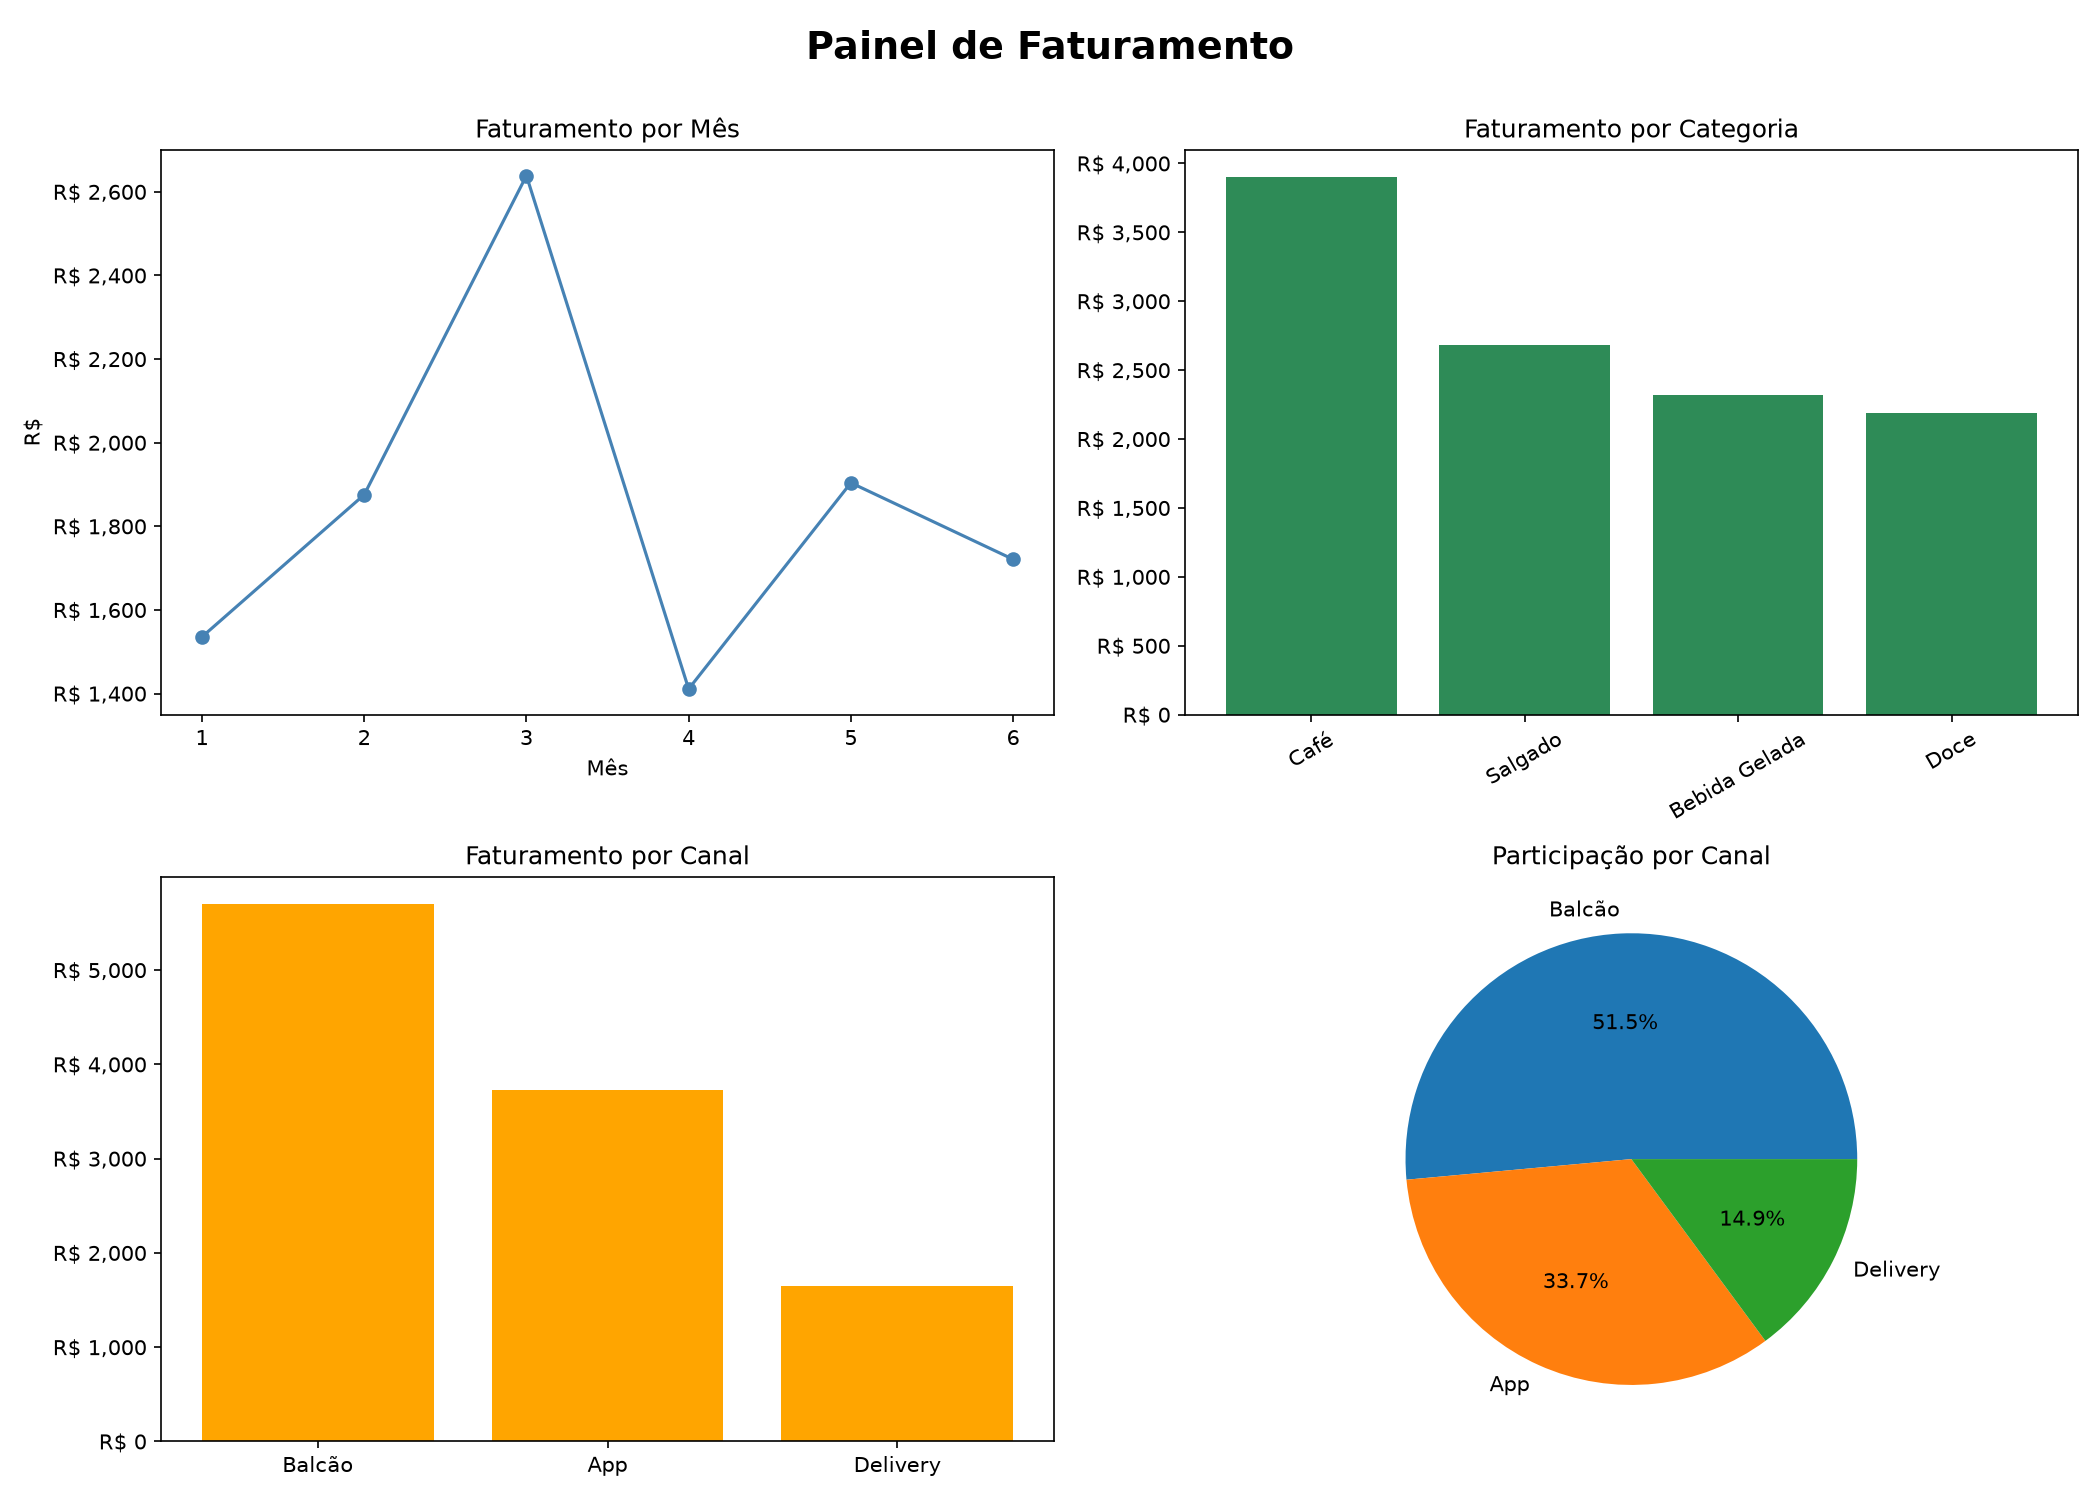
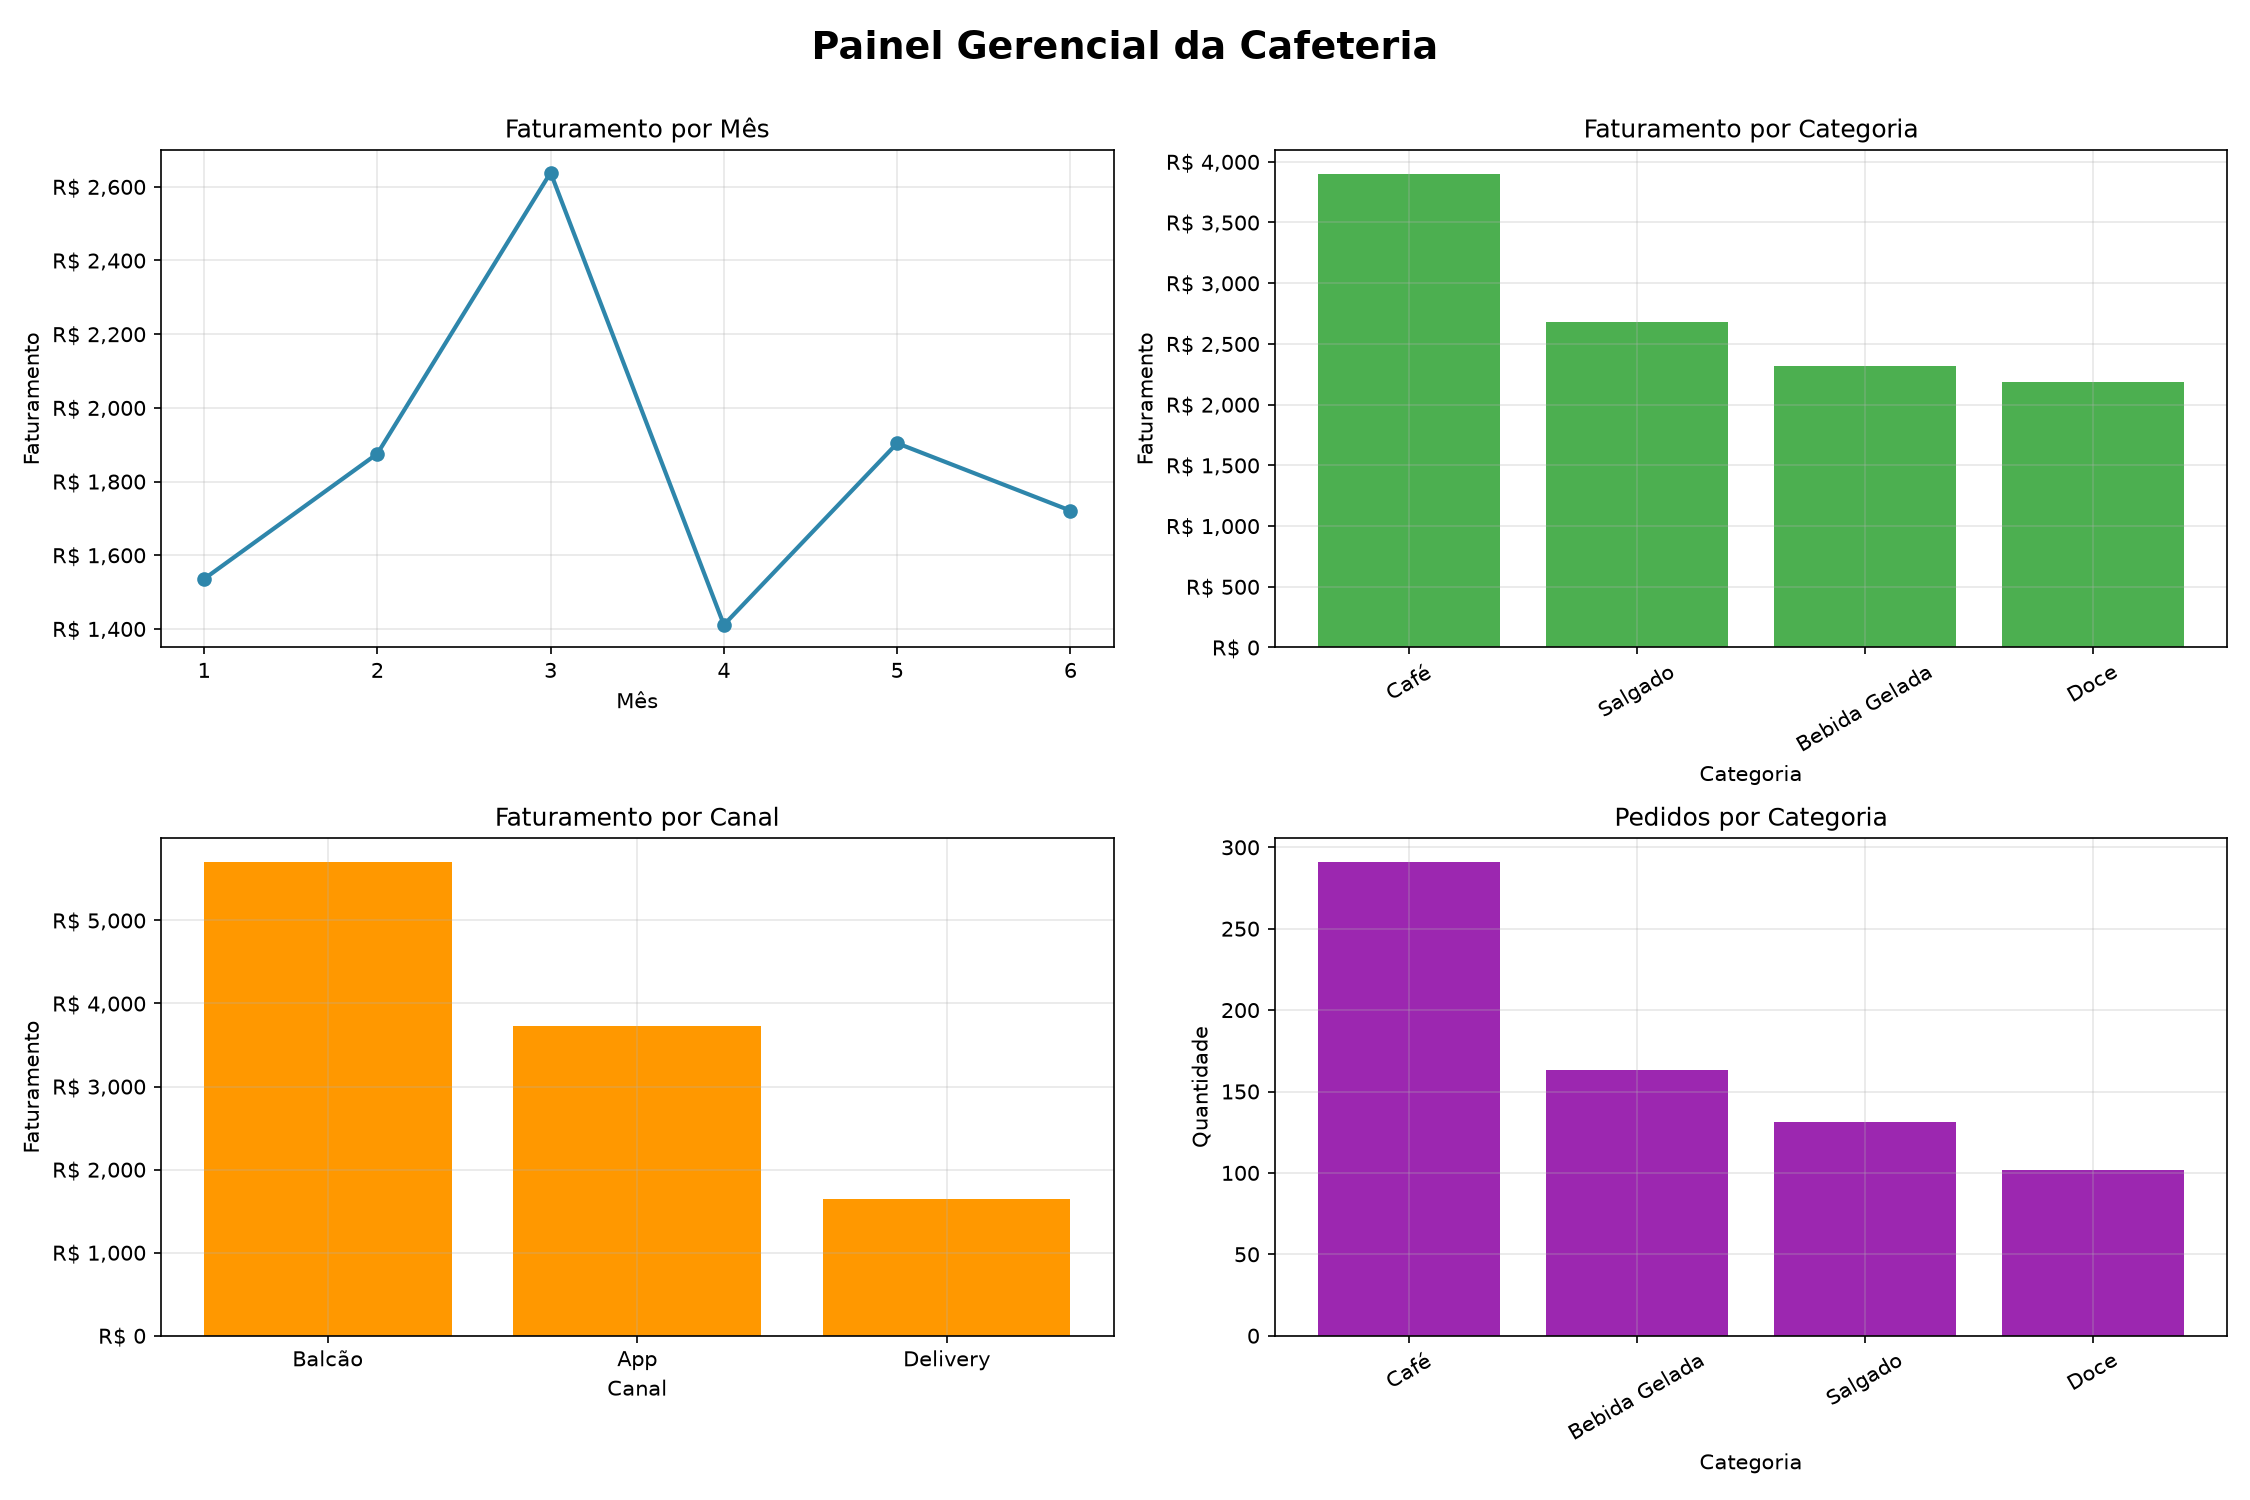
PAINEL DA CAFETERIA

diff --git a/painel_cafeteria.py b/painel_cafeteria.py
@@ -1,0 +1,119 @@
+import pandas as pd
+import matplotlib.pyplot as plt
+from matplotlib.ticker import FuncFormatter
+
+
+def criar_painel(base):
+    # Conversões
+    base["total"] = pd.to_numeric(base["total"], errors="coerce")
+    base = base.dropna(subset=["total"])
+
+    # Agrupamentos
+    faturamento_mes = base.groupby("mes")["total"].sum()
+
+    faturamento_categoria = (
+        base.groupby("categoria")["total"]
+        .sum()
+        .sort_values(ascending=False)
+    )
+
+    faturamento_canal = (
+        base.groupby("canal")["total"]
+        .sum()
+        .sort_values(ascending=False)
+    )
+
+    pedidos_categoria = (
+        base.groupby("categoria")["id_pedido"]
+        .count()
+        .sort_values(ascending=False)
+    )
+
+    # Painel 2x2
+    fig, axs = plt.subplots(2, 2, figsize=(15, 10))
+
+    # 1. Faturamento por mês
+    axs[0, 0].plot(
+        faturamento_mes.index,
+        faturamento_mes.values,
+        marker="o",
+        linewidth=2,
+        color="#2E86AB"
+    )
+    axs[0, 0].set_title("Faturamento por Mês")
+    axs[0, 0].set_xlabel("Mês")
+    axs[0, 0].set_ylabel("Faturamento")
+
+    # 2. Faturamento por categoria
+    axs[0, 1].bar(
+        faturamento_categoria.index,
+        faturamento_categoria.values,
+        color="#4CAF50"
+    )
+    axs[0, 1].set_title("Faturamento por Categoria")
+    axs[0, 1].set_xlabel("Categoria")
+    axs[0, 1].set_ylabel("Faturamento")
+    axs[0, 1].tick_params(axis="x", rotation=30)
+
+    # 3. Faturamento por canal
+    axs[1, 0].bar(
+        faturamento_canal.index,
+        faturamento_canal.values,
+        color="#FF9800"
+    )
+    axs[1, 0].set_title("Faturamento por Canal")
+    axs[1, 0].set_xlabel("Canal")
+    axs[1, 0].set_ylabel("Faturamento")
+
+    # 4. Quantidade de pedidos por categoria
+    axs[1, 1].bar(
+        pedidos_categoria.index,
+        pedidos_categoria.values,
+        color="#9C27B0"
+    )
+    axs[1, 1].set_title("Pedidos por Categoria")
+    axs[1, 1].set_xlabel("Categoria")
+    axs[1, 1].set_ylabel("Quantidade")
+    axs[1, 1].tick_params(axis="x", rotation=30)
+
+    # Formatação monetária
+    formatter = FuncFormatter(
+        lambda x, p: f"R$ {x:,.0f}"
+    )
+
+    axs[0, 0].yaxis.set_major_formatter(formatter)
+    axs[0, 1].yaxis.set_major_formatter(formatter)
+    axs[1, 0].yaxis.set_major_formatter(formatter)
+
+    # Grade
+    for ax in axs.flat:
+        ax.grid(alpha=0.3)
+
+    # Título geral
+    fig.suptitle(
+        "Painel Gerencial da Cafeteria",
+        fontsize=18,
+        fontweight="bold"
+    )
+
+    plt.tight_layout()
+    plt.subplots_adjust(top=0.90)
+
+    plt.savefig("painel.png", dpi=150)
+
+    print("✅ painel.png gerado com sucesso!")
+
+    plt.show()
+
+
+# ==========================
+# EXECUÇÃO
+# ==========================
+
+df = pd.read_csv(
+    "pedidos_prontos.csv",
+    comment="<",
+    on_bad_lines="skip"
+)
+
+criar_painel(df)
